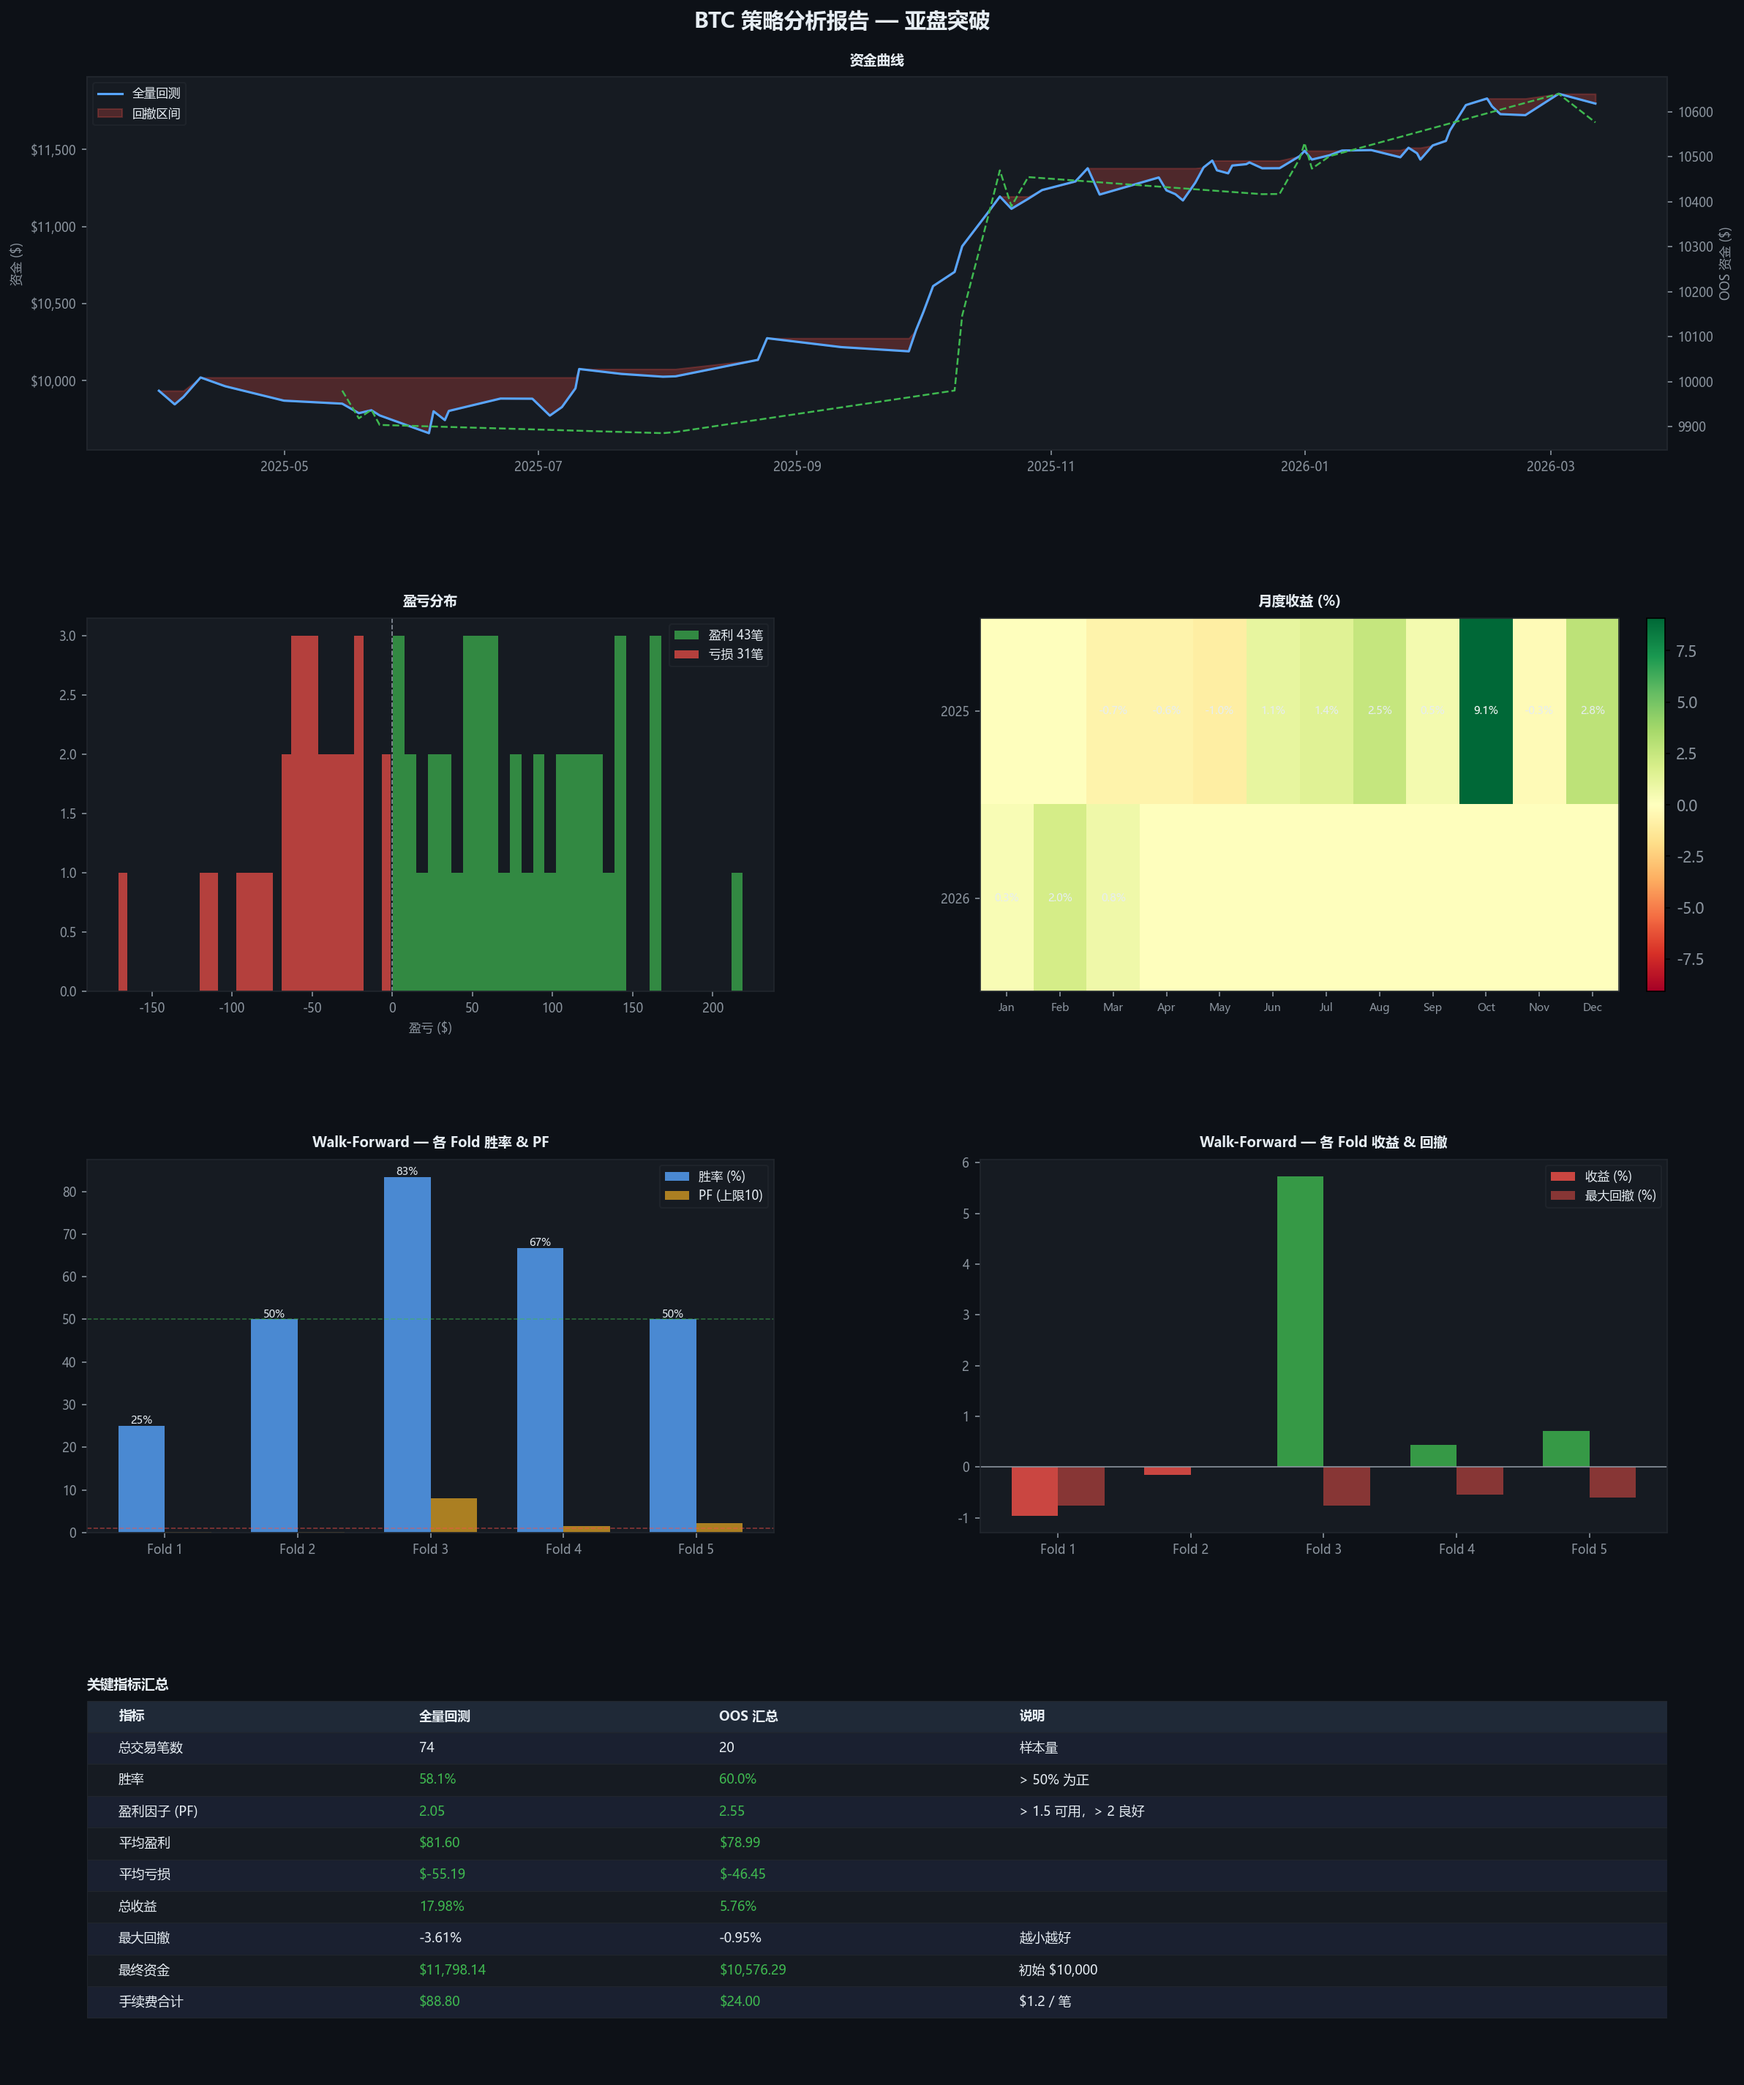
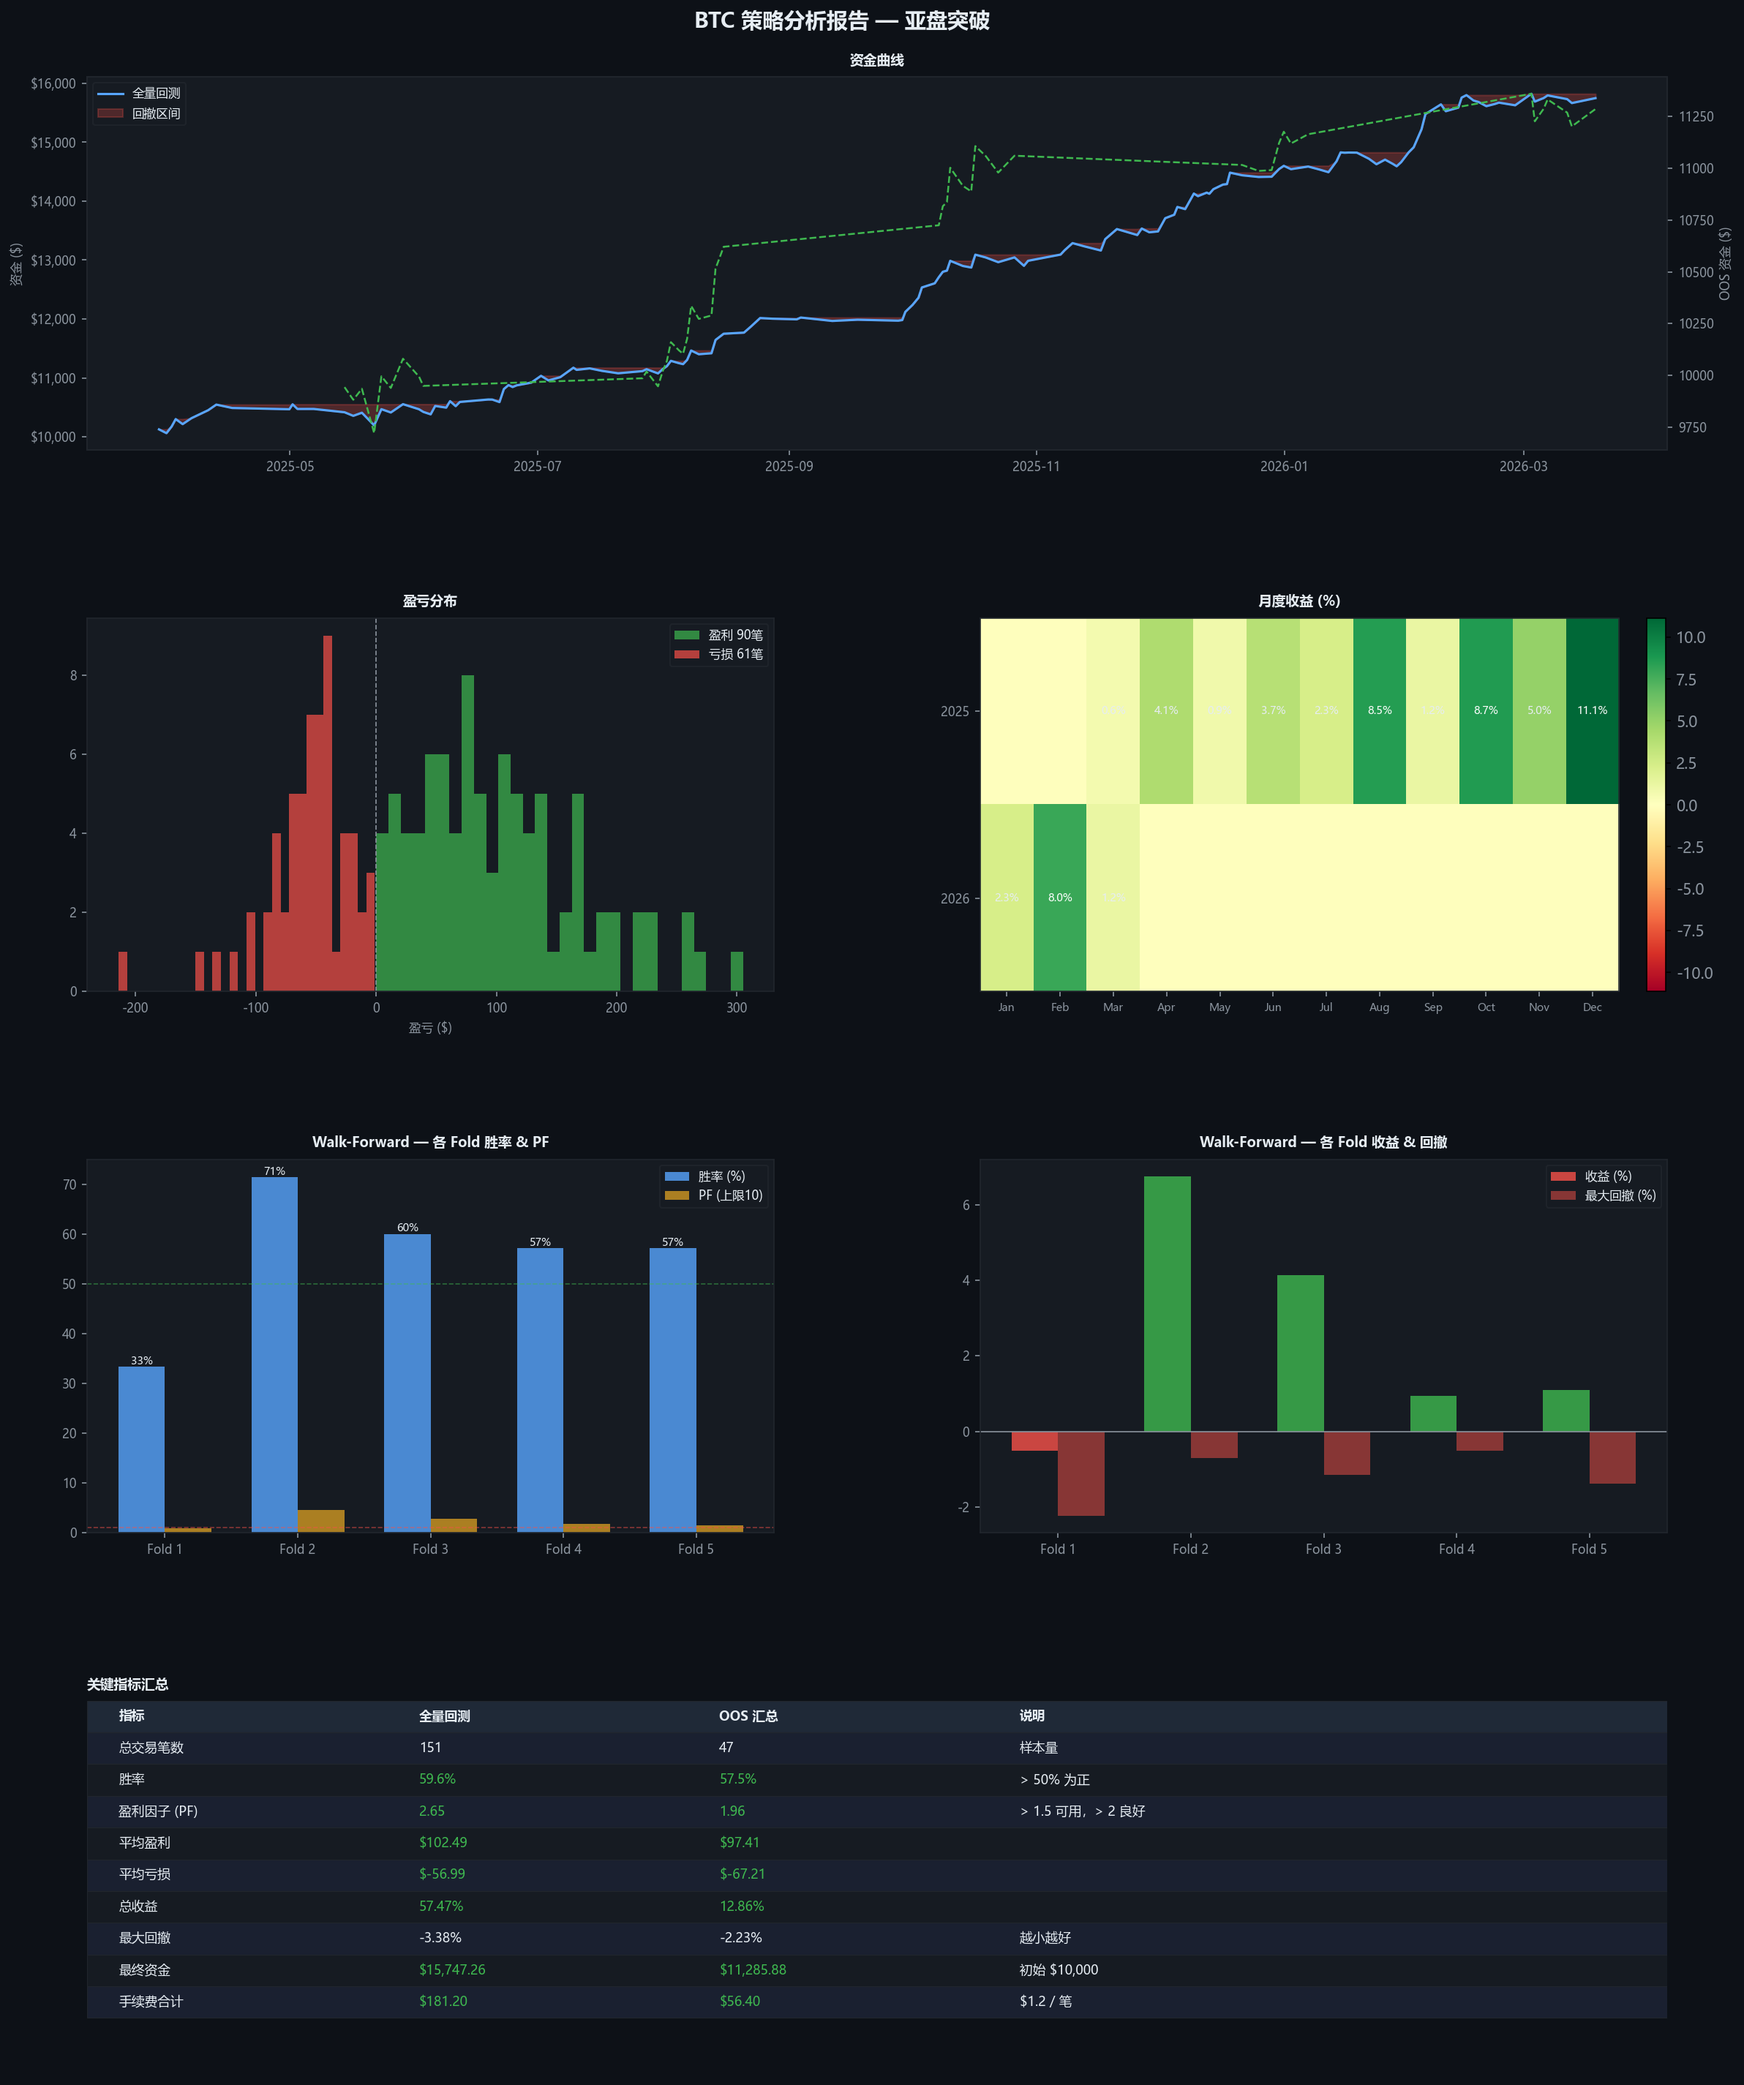
tune: 放宽突破过滤条件 vol_mult=1.2 range_atr_mult=2.0，收益+57%

diff --git a/3_breakout/backtest.py b/3_breakout/backtest.py
@@ -149,8 +149,8 @@ def run_backtest(
     df_1h:  pd.DataFrame,
     df_5m:  pd.DataFrame,
     initial_capital: float = 10_000,
-    vol_mult: float = 1.5,
-    range_atr_mult: float = 1.5,
+    vol_mult: float = 1.2,
+    range_atr_mult: float = 2.0,
     tp_mult: float = 2.0,
 ) -> dict:
     trades, _ = _run_segment(df_1h, df_5m, initial_capital,
@@ -163,8 +163,8 @@ def walk_forward(
     df_1h:  pd.DataFrame,
     df_5m:  pd.DataFrame,
     initial_capital: float = 10_000,
-    vol_mult: float = 1.5,
-    range_atr_mult: float = 1.5,
+    vol_mult: float = 1.2,
+    range_atr_mult: float = 2.0,
     tp_mult: float = 2.0,
     n_splits: int = 5,
     train_ratio: float = 0.7,
